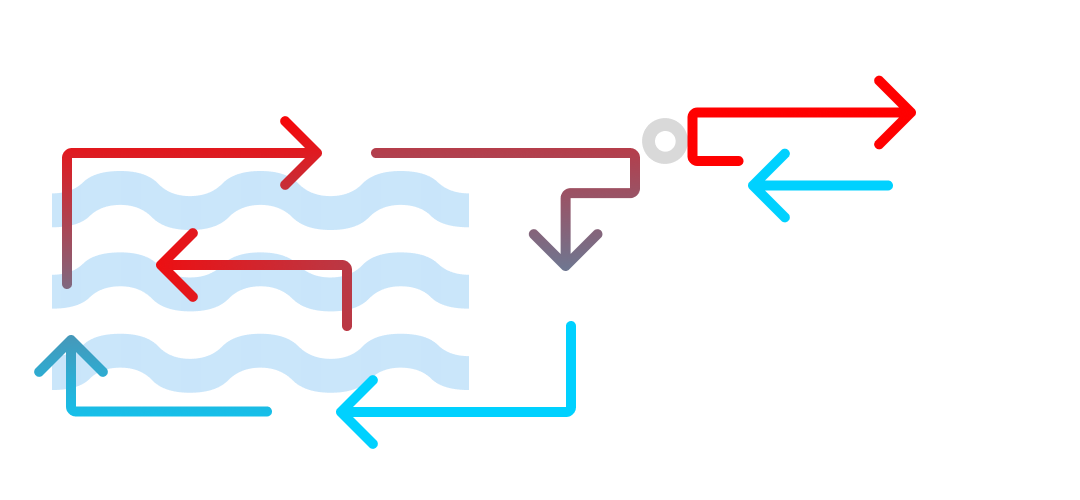
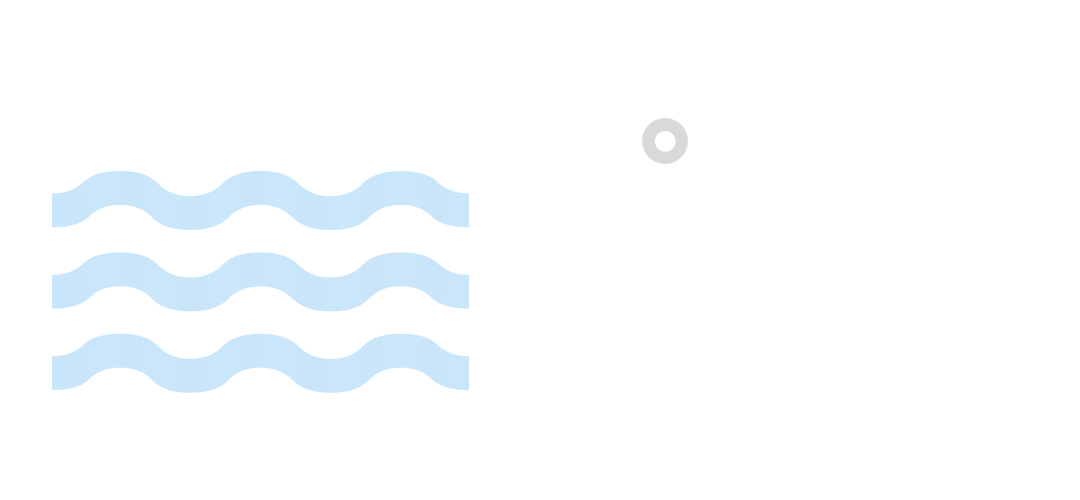
s

diff --git a/06.dataBean/page/index.html b/06.dataBean/page/index.html
@@ -273,8 +273,29 @@
                 차세대 냉각 솔루션 <span>이미전쿨링</span>이 더욱 탁월한 성능을
                 지원합니다.
               </h6>
-                <span>* IT 장비를 비전도성 냉매(액체)에 담가 직접 냉각하는 방식</span>
-                <h6></h6>
+              <span
+                >* IT 장비를 비전도성 냉매(액체)에 담가 직접 냉각하는 방식</span
+              >
+              <h6>이머전 쿨링 시스템 동작 원리</h6>
+              <p>
+                SmartBox는 IT기기를 비전도성 액체인 냉매에 완전히 담가서
+                냉각시키고, 냉매가 흡수한 열은 드라이쿨러 또는 냉각탑으로
+                식혀주는 시스템입니다. 서버의 모든 팬은 액체에 담가지기 때문에
+                제거됩니다.
+              </p>
+              <svg
+                width="240"
+                height="128"
+                viewBox="0 0 240 128"
+                fill="none"
+                xmlns="http://www.w3.org/2000/svg"
+              >
+                <path id="a"
+                  d="M240 5C240 2.23858 237.761 0 235 0C232.239 0 230 2.23858 230 5H240ZM1.46447 87.4645C-0.488155 89.4171 -0.488155 92.5829 1.46447 94.5355L33.2843 126.355C35.2369 128.308 38.4027 128.308 40.3553 126.355C42.308 124.403 42.308 121.237 40.3553 119.284L12.0711 91L40.3553 62.7157C42.308 60.7631 42.308 57.5973 40.3553 55.6447C38.4027 53.692 35.2369 53.692 33.2843 55.6447L1.46447 87.4645ZM230 5V86H240V5H230ZM230 86H5V96H230V86ZM230 86L230 86V96C235.523 96 240 91.5228 240 86H230Z"
+                  fill="#00D1FF"
+                />
+              </svg>
+
               <img
                 src="../assets/images/section5-content1.png"
                 alt="이머전 쿨링 시스템 동작 원리"
@@ -288,4 +309,5 @@
       <section class="section section7"></section>
     </main>
   </body>
+  <script></script>
 </html>

diff --git a/06.dataBean/assets/css/index.css b/06.dataBean/assets/css/index.css
@@ -261,3 +261,18 @@ header {
 
 
 
+#a{
+  stroke-linecap: round;
+  stroke-linejoin: round;
+  stroke-miterlimit: 10;
+  stroke-dasharray: 1000;
+  stroke-dashoffset: 1000;
+  stroke-width: 24;
+  animation: hand-writing 0.45s linear forwards 1.8s;
+}
+
+@keyframes hand-writing{
+  100%{
+    stroke-dashoffset: 0;
+  }
+}
